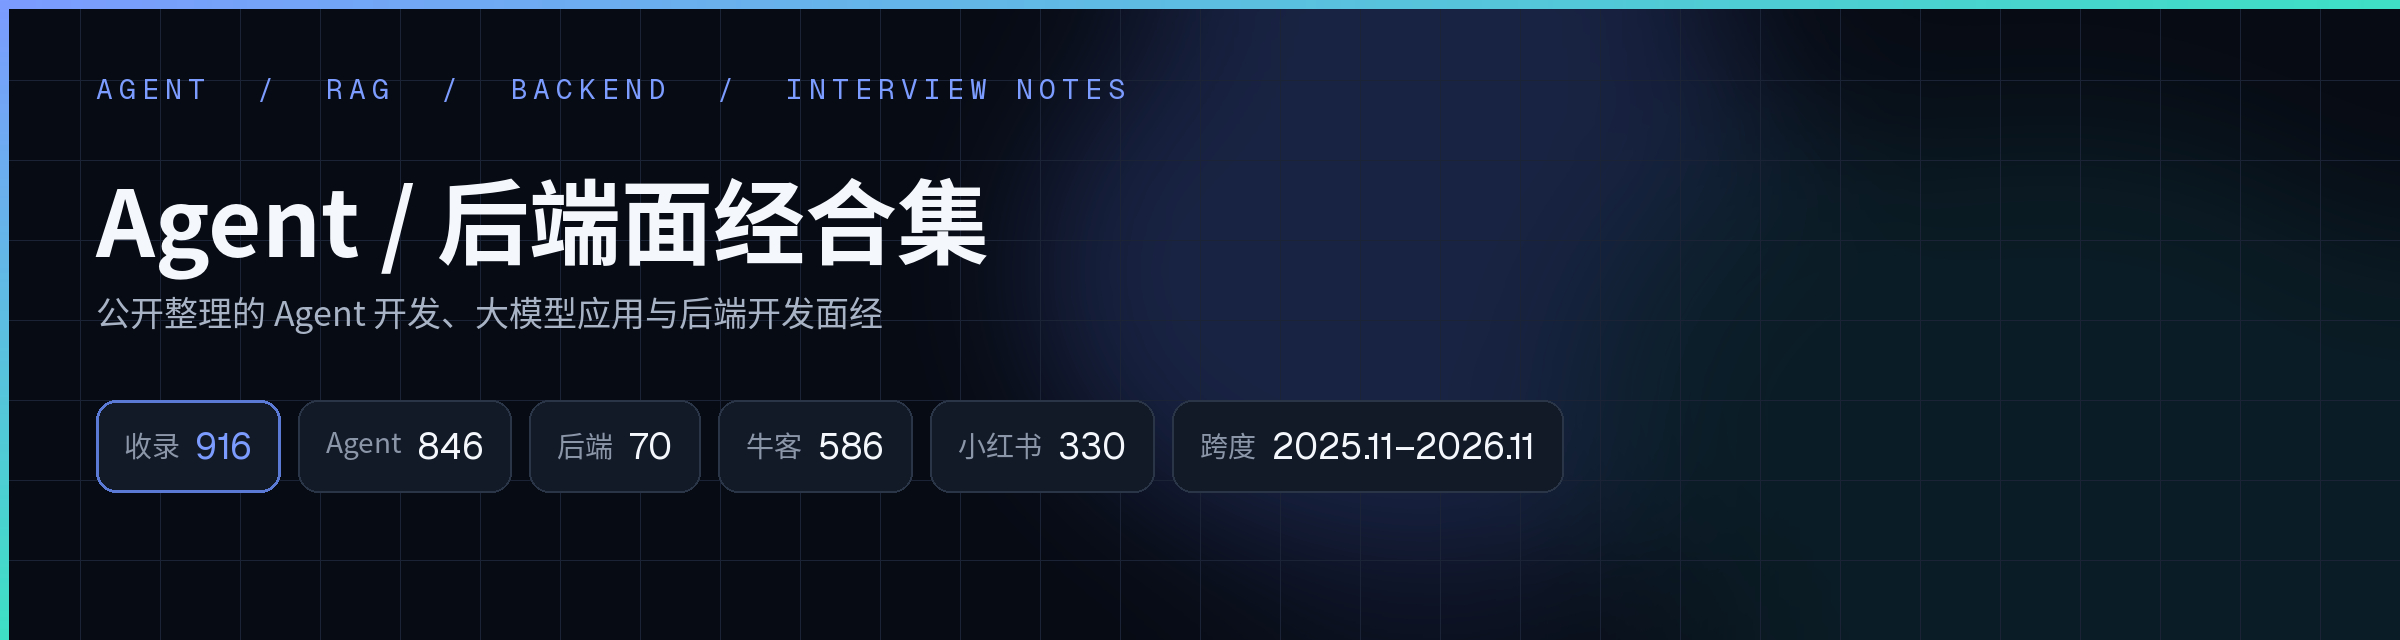
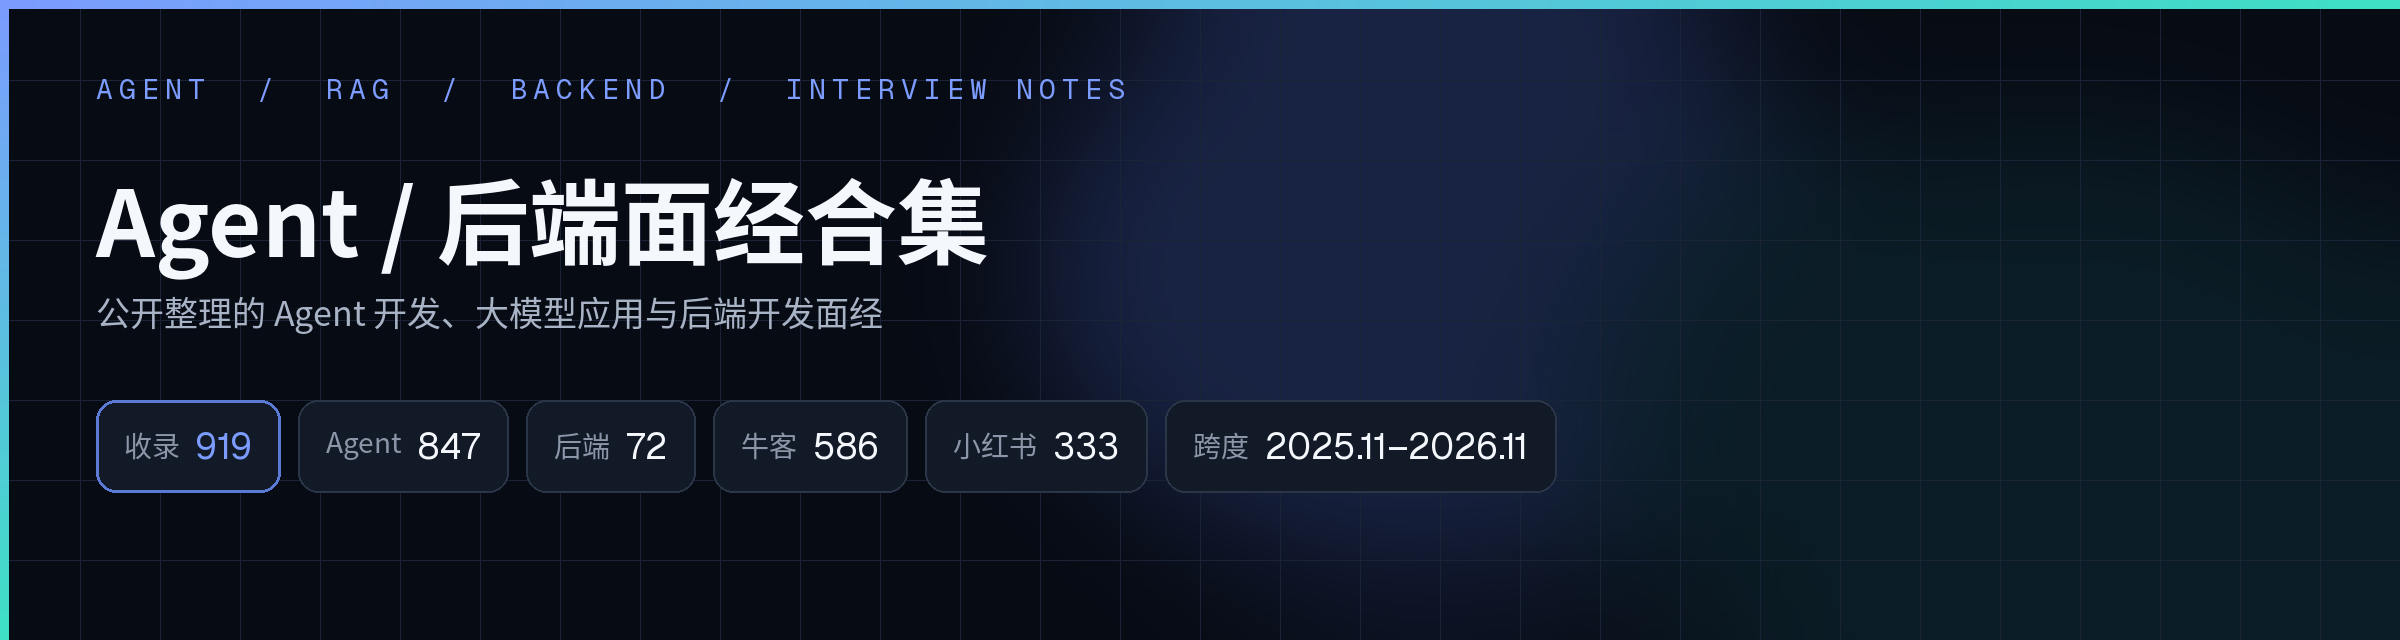
add 3 Xiaohongshu 面经 (招银云创后端一二面、CVTE软开线下面)

Changed region(s): [[0.1875, 0.625, 0.6562, 0.75], [0.0938, 0.6875, 0.125, 0.7188]]

diff --git a/README.md b/README.md
@@ -21,7 +21,7 @@
 
 | 收录 | Agent / 大模型应用 | 后端 | 来源 | 发帖跨度 |
 | --- | --- | --- | --- | --- |
-| 916 篇 | 846 | 70 | 牛客 586 · 小红书 330 | 2025.11–2026.11 |
+| 919 篇 | 847 | 72 | 牛客 586 · 小红书 333 | 2025.11–2026.11 |
 
 统计与 [`data/index.json`](data/index.json) 及 `agent/`、`backend/` 目录文件一致，随收录更新。本仓库整理已公开的帖子，不声称对每篇都做了独立真伪核验。
 
@@ -322,6 +322,7 @@
 | 2026-09-20 | 阿里云 ai应用开发 一面 | [文件](agent/2026-09-20-阿里云-AI应用开发-一面.md) | [原文](https://www.nowcoder.com/feed/main/detail/7e27cf4dedb142d9b643471ba31276ed) |
 | 2026-09-20 | 字节agent一面凉经 | [文件](agent/2026-09-20-字节跳动-Agent开发-一面.md) | [原文](https://www.nowcoder.com/feed/main/detail/e0790151fa6a4f619654531a840080c6) |
 | 2026-09-20 | 百度日常实习面试怎么这么压力 | [文件](agent/2026-09-20-百度-Agent开发-日常实习-一面.md) | [原文](https://www.xiaohongshu.com/explore/6aaf5c4d000000002a027a93) |
+| 2026-09-20 | CVTE软开 线下面 | [文件](agent/2026-09-20-CVTE-软开-线下面.md) | [原文](https://www.xiaohongshu.com/explore/6aaf7462000000002503734c) |
 | 2026-09-19 | 9.17 字节剪映AI Agent开发二面 | [文件](agent/2026-09-19-字节跳动剪映-AIAgent开发-二面.md) | [原文](https://www.xiaohongshu.com/explore/6aae55b70000000029010a94) |
 | 2026-09-19 | 吉翼FDE一面 | [文件](agent/2026-09-19-吉翼-FDE-一面.md) | [原文](https://www.xiaohongshu.com/explore/6aae1e9a0000000026014c82) |
 | 2026-09-19 | 字节跳动秋招-AI Agent开发-一面面经 | [文件](agent/2026-09-19-字节跳动-AIAgent开发-秋招-一面.md) | [原文](https://www.xiaohongshu.com/explore/6aae6831000000001103ae4f) |
@@ -941,7 +942,9 @@
 | 2026-09-28 | 点点互动秋招-后端开发-一面面经 | [文件](backend/2026-09-28-点点互动-后端开发-秋招-一面.md) | [原文](https://www.xiaohongshu.com/explore/6ab9eb080000000018011079) |
 | 2026-09-25 | 阿里 Java后端实习一面二面 | [文件](backend/2026-09-25-阿里-Java后端实习-一面二面.md) | [原文](https://www.xiaohongshu.com/explore/6ab67798000000001801b3d2) |
 | 2026-09-22 | 未岚大陆一面二面面经 | [文件](backend/2026-09-22-未岚大陆-后端开发-一面二面.md) | [原文](https://www.xiaohongshu.com/explore/6ab27c9f000000003400e9b3) |
+| 2026-09-22 | 招银云创后端二面 | [文件](backend/2026-09-22-招银云创-后端-二面.md) | [原文](https://www.xiaohongshu.com/explore/6ab27cab0000000033032b10) |
 | 2026-09-20 | 拼多多-服务端开发-秋招一面面经 | [文件](backend/2026-09-20-拼多多-服务端开发-秋招-一面.md) | [原文](https://www.xiaohongshu.com/explore/6aafc4080000000028003d25) |
+| 2026-09-19 | 招银云创后端一面 | [文件](backend/2026-09-19-招银云创-后端-一面.md) | [原文](https://www.xiaohongshu.com/explore/6aae48e4000000000b03623a) |
 | 2026-09-18 | 百度 一面 | [文件](backend/2026-09-18-百度-一面.md) | [原文](https://www.xiaohongshu.com/explore/6aac98c4000000002b025439) |
 | 2026-09-17 | 27 届秋招 | SHEIN Java 岗一面面经 | [文件](backend/2026-09-17-SHEIN-Java工程师-秋招-一面.md) | [原文](https://www.xiaohongshu.com/explore/6aaba3af0000000012035cbe) |
 | 2026-09-17 | 京东一面 | [文件](backend/2026-09-17-京东科技-后端开发-日常实习-一面.md) | [原文](https://www.xiaohongshu.com/explore/6aabdfba000000000b000fa0) |

diff --git a/agent/2026-09-20-CVTE-软开-线下面.md b/agent/2026-09-20-CVTE-软开-线下面.md
@@ -1,0 +1,37 @@
+# CVTE 软开线下面（内容偏 Agent 项目方向）
+
+> CVTE · 软开（按原帖标题记录，不编成正式 AI 岗位；内容偏 Agent 项目方向，按题目归入 agent/） · 招聘类型未注明 · 线下面（同帖还写到综合面，不拆文件，也不另编未见轮次名称） · 结果未注明 · 详情页可见日期为 09-20（未标年份，无「编辑于」标记）；按报告的 2026 年时间语境记为 2026-09-20，落在收集窗口 2026-08-10 至 2026-11-12。具体面试发生日未写明，本文不推断 · 作者 土豆天使怒种西红柿 · 来源：[小红书](https://www.xiaohongshu.com/explore/6aaf7462000000002503734c)
+
+原帖标题为《CVTE软开 线下面》。岗位按原文记为软开，不改写成正式 AI 岗位。招聘类型、面试日期和结果在已读材料里未见，不猜测，也不把文中的实习项目写成已证实的招聘类型。
+
+## 速览
+
+- **重点**：CVTE 软开线下面。岗位按原帖标题记为软开。下面只整理搜集报告里已经可见的题意摘要，不是逐字原文，也不补答案，更不声称已经覆盖原帖全部题目。已核题意包括：实习里的 Agent 项目，以及记忆怎样持久化；网页交互，还有 HTTP、WebSocket、SSE；权限与安全；RAG 怎样优化；Redis 缓存，以及 LRU。报告还写另有综合面，但未展开综合面题意，这里不补，也不拆成另一篇。本帖只见这一场，不另编未见轮次。
+- **难度**：CVTE 软开线下面（内容偏 Agent 项目方向，岗位按标题记为软开，不编成正式 AI 岗位）。发帖日期依据：详情页可见 09-20，未标年份，无「编辑于」标记，按报告 2026 语境记为 2026-09-20。
+- **题量**：仅按报告可见摘要整理，不把未见细节补成题目，也不声称全题已核。
+
+## 面经正文
+
+以下只整理搜集报告中已经看到的题意，不是逐字原文，也不补答案。同帖提到的综合面如有可见题意会写在本篇，不拆文件。
+
+### 线下面
+
+已读材料没有写出实际面试日期。
+
+实习里的 Agent 项目，以及记忆怎样持久化。这里的实习只是项目背景，不据此把招聘类型写成实习。
+
+网页交互，还有 HTTP、WebSocket、SSE。
+
+权限与安全。
+
+RAG 怎样优化。
+
+Redis 缓存，以及 LRU。
+
+报告还写另有综合面，但未展开具体题意，这里不补写综合面题目，也不另开一篇。
+
+以上只保留报告已核题意，不补实现细节或作答。未在报告中出现的题目和答案不补写。已读材料未见最终录用或淘汰结论，结果未注明。招聘类型也未注明。具体面试发生日不等于发帖日，本文不推断。
+
+---
+
+收录于 2026-11-25 · 本文为依据搜集报告可见摘要的整理，非正式原文转载。版权归原作者所有，如有侵权请提 Issue 删除。

diff --git a/backend/2026-09-19-招银云创-后端-一面.md b/backend/2026-09-19-招银云创-后端-一面.md
@@ -1,0 +1,37 @@
+# 招银云创后端一面
+
+> 招银云创 · 后端（按原帖标题记录） · 招聘类型未注明 · 一面 · 结果未注明 · 详情页可见日期为 09-19（未标年份，无「编辑于」标记）；按报告的 2026 年时间语境记为 2026-09-19，落在收集窗口 2026-08-10 至 2026-11-12。具体面试发生日未写明，本文不推断 · 作者 土豆天使怒种西红柿 · 来源：[小红书](https://www.xiaohongshu.com/explore/6aae48e4000000000b03623a)
+
+原帖标题为《招银云创后端一面》。岗位按标题记为后端。招聘类型、面试日期和结果在已读材料里未见，不猜测。同作者另有招银云创后端二面，是不同原帖，本文只整理这一场一面，不合并。
+
+## 速览
+
+- **重点**：招银云创后端一面。下面只整理搜集报告里已经可见的题意摘要，不是逐字原文，也不补答案，更不声称已经覆盖原帖全部题目。报告写这场大约 25 分钟。已核题意包括：SpringAI 项目是做什么的，难点在哪里；用户文件怎样保存，错误怎么处理；Java 和 JVM；MySQL、事务和 SQL；Redis 持久化，以及消息队列。本帖只见一面这一场，不拆文件，也不把同作者其他场次写入本文。
+- **难度**：招银云创后端一面。发帖日期依据：详情页可见 09-19，未标年份，无「编辑于」标记，按报告 2026 语境记为 2026-09-19。
+- **题量**：仅按报告可见摘要整理，不把未见细节补成题目，也不声称全题已核。
+
+## 面经正文
+
+以下只整理搜集报告中已经看到的题意，不是逐字原文，也不补答案。只写这一场一面，不拆、不补其他轮次。
+
+### 一面
+
+已读材料没有写出实际面试日期。
+
+报告写这场大约 25 分钟。
+
+SpringAI 项目是做什么的，难点在哪里。
+
+用户文件怎样保存，错误怎么处理。
+
+Java 和 JVM。
+
+MySQL、事务和 SQL。
+
+Redis 持久化，以及消息队列。
+
+以上只保留报告已核题意，不补实现细节或作答。未在报告中出现的题目和答案不补写。已读材料未见最终录用或淘汰结论，结果未注明。招聘类型也未注明。具体面试发生日不等于发帖日，本文不推断。
+
+---
+
+收录于 2026-11-25 · 本文为依据搜集报告可见摘要的整理，非正式原文转载。版权归原作者所有，如有侵权请提 Issue 删除。

diff --git a/backend/2026-09-22-招银云创-后端-二面.md b/backend/2026-09-22-招银云创-后端-二面.md
@@ -1,0 +1,37 @@
+# 招银云创后端二面
+
+> 招银云创 · 后端（按原帖标题记录） · 招聘类型未注明 · 二面 · 结果未注明 · 详情页可见日期为 09-22（未标年份，无「编辑于」标记）；按报告的 2026 年时间语境记为 2026-09-22，落在收集窗口 2026-08-10 至 2026-11-12。具体面试发生日未写明，本文不推断 · 作者 土豆天使怒种西红柿 · 来源：[小红书](https://www.xiaohongshu.com/explore/6ab27cab0000000033032b10)
+
+原帖标题为《招银云创后端二面》。岗位按标题记为后端。招聘类型、面试日期和结果在已读材料里未见，不猜测。同作者另有招银云创后端一面，是不同原帖，本文只整理这一场二面，不合并。
+
+## 速览
+
+- **重点**：招银云创后端二面。下面只整理搜集报告里已经可见的题意摘要，不是逐字原文，也不补答案，更不声称已经覆盖原帖全部题目。报告写这场大约 20 分钟。已核题意包括：后端项目，以及框架怎样选型；底层模型和路由怎么看；设计模式；数据库连接失败怎样排障；数据库内存偏高怎么处理。本帖只见二面这一场，不拆文件，也不把同作者其他场次写入本文。
+- **难度**：招银云创后端二面。发帖日期依据：详情页可见 09-22，未标年份，无「编辑于」标记，按报告 2026 语境记为 2026-09-22。
+- **题量**：仅按报告可见摘要整理，不把未见细节补成题目，也不声称全题已核。
+
+## 面经正文
+
+以下只整理搜集报告中已经看到的题意，不是逐字原文，也不补答案。只写这一场二面，不拆、不补其他轮次。
+
+### 二面
+
+已读材料没有写出实际面试日期。
+
+报告写这场大约 20 分钟。
+
+后端项目，以及框架怎样选型。
+
+底层模型和路由怎么看。
+
+设计模式。
+
+数据库连接失败怎样排障。
+
+数据库内存偏高怎么处理。
+
+以上只保留报告已核题意，不补实现细节或作答。未在报告中出现的题目和答案不补写。已读材料未见最终录用或淘汰结论，结果未注明。招聘类型也未注明。具体面试发生日不等于发帖日，本文不推断。
+
+---
+
+收录于 2026-11-25 · 本文为依据搜集报告可见摘要的整理，非正式原文转载。版权归原作者所有，如有侵权请提 Issue 删除。
